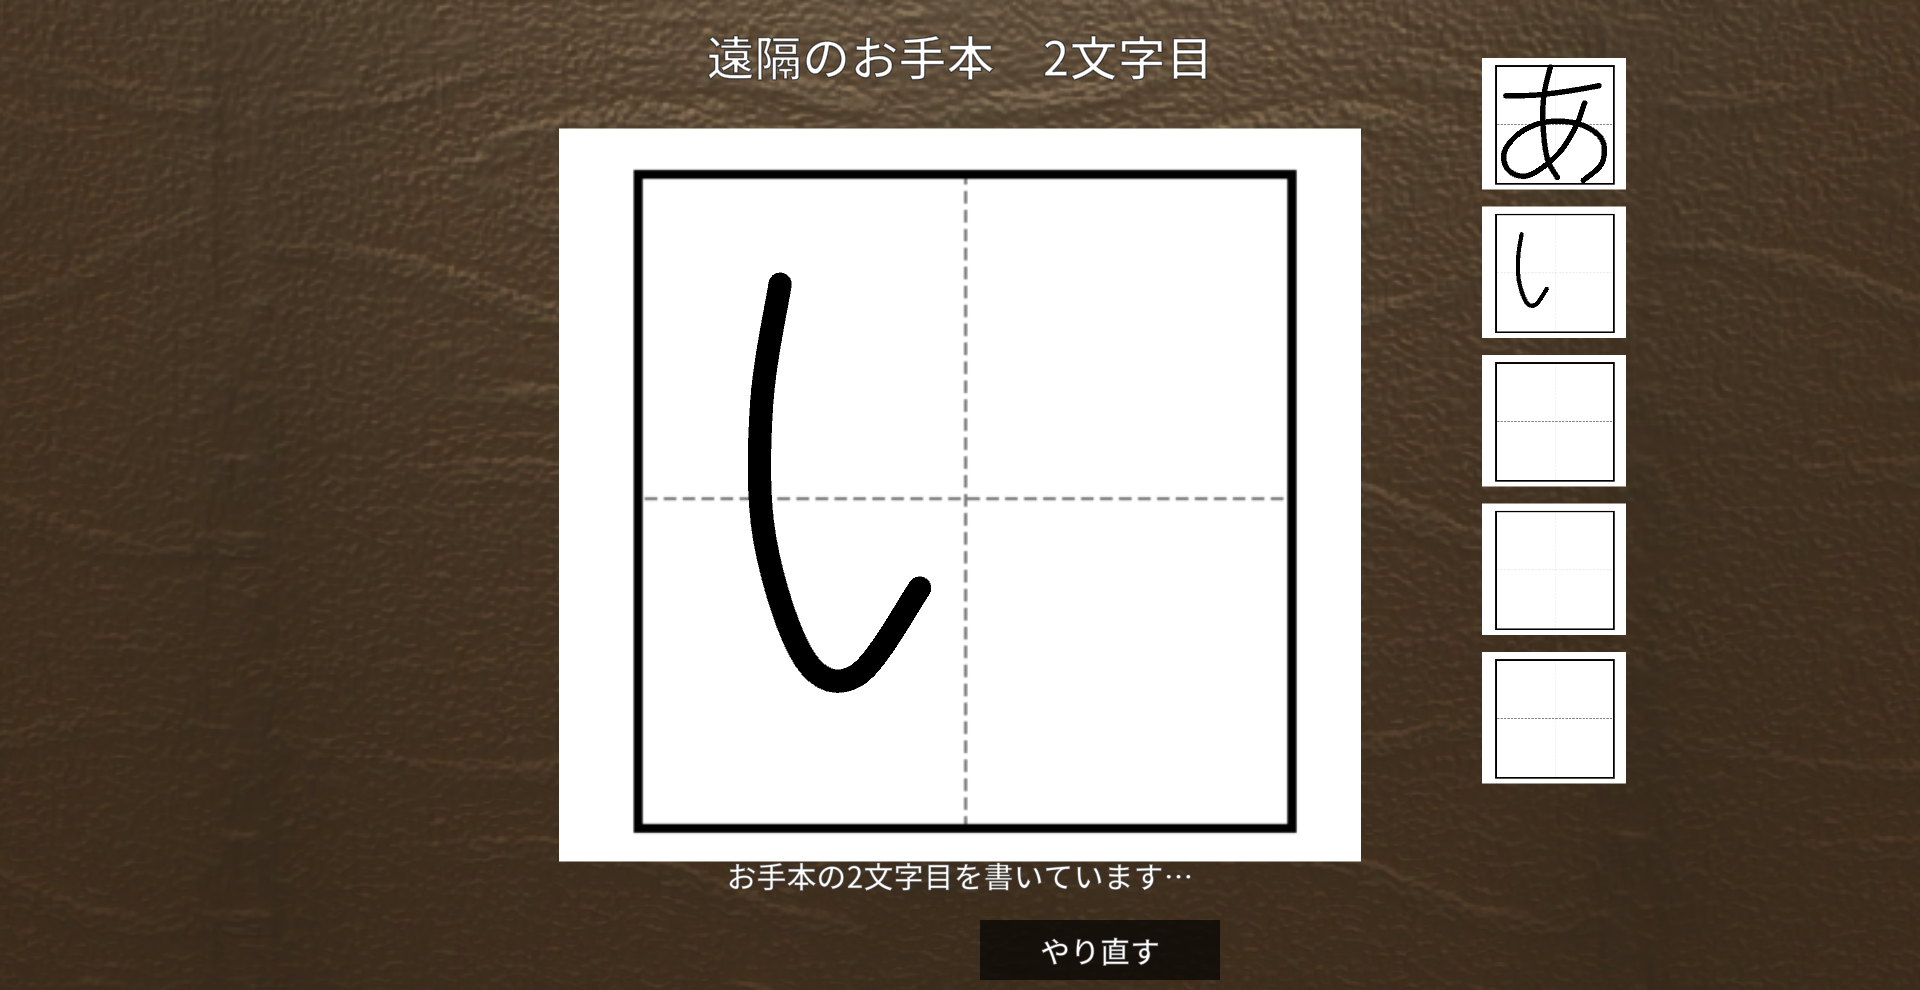
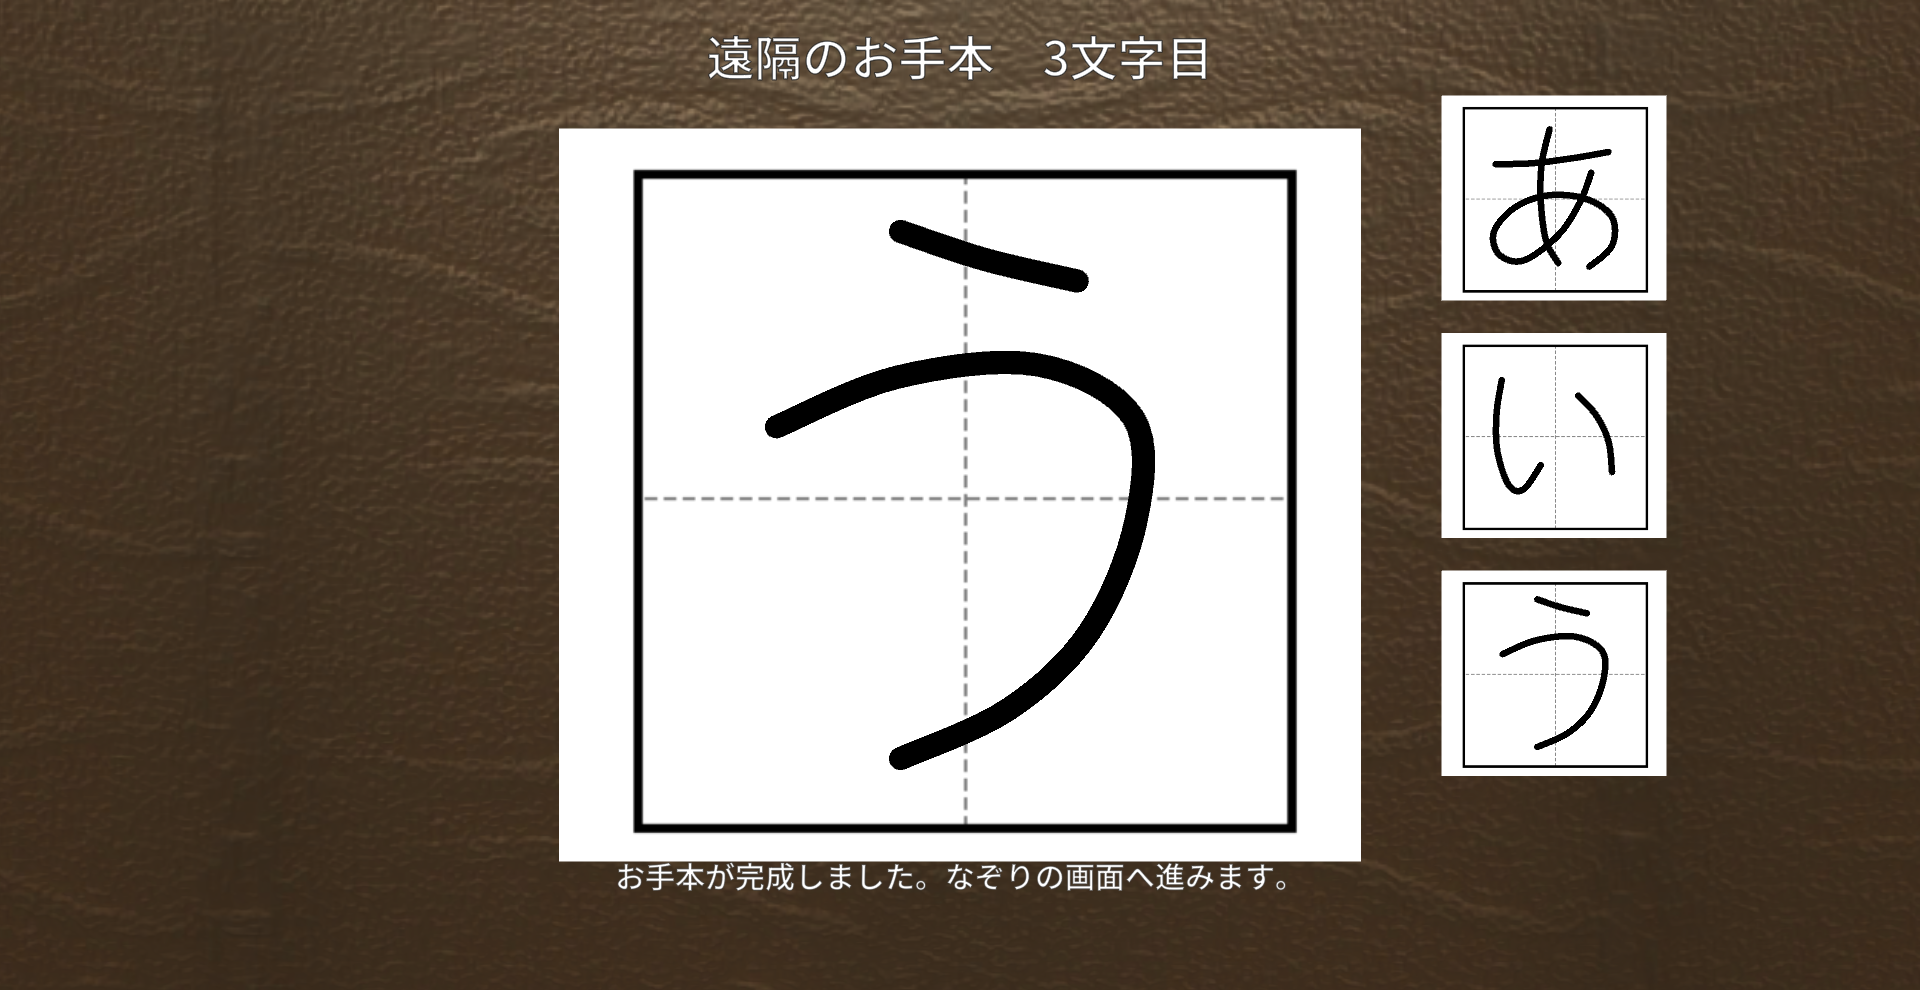
Limit remote handwriting to three characters and enlarge gallery layouts

diff --git a/Assets/scripts/RemotePreviewController.cs b/Assets/scripts/RemotePreviewController.cs
@@ -55,16 +55,16 @@ public class RemotePreviewController : MonoBehaviour
         }
         BuildInterface();
         var paperSize = paper.GetComponent<Renderer>().bounds.size;
-        float top = galleryArea.GetComponent<Renderer>().bounds.max.y;
+        float top = galleryArea.GetComponent<Renderer>().bounds.max.y - 0.75f;
         for (int i = 0; i < RemoteHandwritingReceiver.MaxCharacters; i++)
         {
             var slot = Instantiate(backgroundPrefab, rightPanelParent, false);
             slot.name = "CharacterPreview_" + i;
-            slot.transform.position = new Vector3(rightPanelParent.position.x, top - i * 1.5f, rightPanelParent.position.z);
+            slot.transform.position = new Vector3(rightPanelParent.position.x, top - i * 2.4f, rightPanelParent.position.z);
             slot.transform.rotation = rightPanelParent.rotation;
             var size = slot.GetComponent<Renderer>().bounds.size;
             slot.transform.localScale = Vector3.Scale(slot.transform.localScale,
-                new Vector3(paperSize.x / size.x, paperSize.y / size.y, 1f) * 0.18f);
+                new Vector3(paperSize.x / size.x, paperSize.y / size.y, 1f) * 0.28f);
             foreach (var text in slot.GetComponentsInChildren<TMP_Text>()) text.text = "";
             previews.Add(slot);
         }
@@ -85,7 +85,7 @@ public class RemotePreviewController : MonoBehaviour
         if (promptWord.Length > RemoteHandwritingReceiver.MaxCharacters)
         {
             receiver.enabled = false;
-            message = "お題は最大5文字です。InputNameに戻って入力し直してください。";
+            message = "お題は最大3文字です。InputNameに戻って入力し直してください。";
             return;
         }
         trial = RemoteTrialRuntime.Begin(useLocalTestTemplate, controlPort, promptWord, participantId);

diff --git a/Tests/RemoteHandwriting/PreviewFlowSmoke.cs b/Tests/RemoteHandwriting/PreviewFlowSmoke.cs
@@ -37,20 +37,20 @@ public static class PreviewFlowSmoke
         try
         {
             var data = GlobalData.RemoteTemplate;
-            if (data == null || !data.isLocalTest || data.promptWord != "あいうえお" || data.strokes.Count != 12)
+            if (data == null || !data.isLocalTest || data.promptWord != "あいう" || data.strokes.Count != 7)
                 throw new Exception("Completed template was not transferred.");
-            int[] strokeCounts = new int[5];
+            int[] strokeCounts = new int[3];
             foreach (var stroke in data.strokes)
             {
-                if (stroke.character < 0 || stroke.character > 4 || stroke.points.Count < 2)
+                if (stroke.character < 0 || stroke.character > 2 || stroke.points.Count < 2)
                     throw new Exception("Template coordinates were lost.");
                 strokeCounts[stroke.character]++;
             }
-            if (strokeCounts[0] != 3 || strokeCounts[1] != 2 || strokeCounts[2] != 2 || strokeCounts[3] != 2 || strokeCounts[4] != 3)
+            if (strokeCounts[0] != 3 || strokeCounts[1] != 2 || strokeCounts[2] != 2)
                 throw new Exception("Character stroke groups were lost.");
             if (UnityEngine.Object.FindObjectOfType<RemotePreviewController>() != null)
                 throw new Exception("Preview scene was not unloaded.");
-            Debug.Log("PREVIEW_FLOW_PASS: progressive drawing, completion, automatic scene transition and all five characters retained");
+            Debug.Log("PREVIEW_FLOW_PASS: progressive drawing, completion, automatic scene transition and all three characters retained");
             EditorApplication.Exit(0);
         }
         catch (Exception e) { Debug.LogException(e); EditorApplication.Exit(1); }

diff --git a/Tests/RemoteHandwriting/RemoteSmoke.cs b/Tests/RemoteHandwriting/RemoteSmoke.cs
@@ -106,12 +106,12 @@ public static class RemoteSmoke
             Check(receiver.Error != null, "missing UDP packet reported");
             go.SetActive(false);
             go.SetActive(true);
-            Queue(0, "nextCharacter", 5, 0f);
+            Queue(0, "nextCharacter", 3, 0f);
             Tick();
-            Check(receiver.Error == null, "advance after fifth character is allowed");
-            Queue(1, "point", 5, 0f);
+            Check(receiver.Error == null, "advance after third character is allowed");
+            Queue(1, "point", 3, 0f);
             Tick();
-            Check(receiver.Error != null && receiver.CharacterCount == 0, "sixth character is rejected");
+            Check(receiver.Error != null && receiver.CharacterCount == 0, "fourth character is rejected");
             go.SetActive(false);
             var importedObject = new GameObject("ImportedTemplate");
             importedObject.SetActive(false);
@@ -191,7 +191,7 @@ public static class RemoteSmoke
             Check(replay.MoveNext() && imported.CharacterCount == 1 && !imported.HasFinished, "test handwriting starts progressively");
             while (replay.MoveNext()) { }
             var sample = imported.ExportTemplate(RemoteTestHandwriting.Word, true);
-            Check(imported.CharacterCount == 5 && imported.HasEveryCharacter() && sample.strokes.Count == 12, "five-character sample completes with all twelve strokes preserved");
+            Check(imported.CharacterCount == 3 && imported.HasEveryCharacter() && sample.strokes.Count == 7, "three-character sample completes with all seven strokes preserved");
             importedObject.SetActive(false);
             Debug.Log("REMOTE_SMOKE_PASS: " + checks + " checks");
             EditorApplication.Exit(0);

diff --git a/Assets/scripts/RemoteTestHandwriting.cs b/Assets/scripts/RemoteTestHandwriting.cs
@@ -3,7 +3,7 @@ using UnityEngine;
 // Hand-authored centre-line samples, in the same XY space as the tablet sender.
 public static class RemoteTestHandwriting
 {
-    public const string Word = "あいうえお";
+    public const string Word = "あいう";
 
     public static RemoteTemplateData Create()
     {
@@ -24,17 +24,6 @@ public static class RemoteTestHandwriting
         Add(data, 2, 0, -.25f,.85f, .02f,.76f, .32f,.69f);
         Add(data, 2, 1, -.65f,.22f, -.26f,.38f, .19f,.42f, .50f,.25f,
             .51f,-.08f, .36f,-.44f, .10f,-.69f, -.25f,-.85f);
-        // え: upper mark, then the diagonal and folded lower stroke.
-        Add(data, 3, 0, -.25f,.85f, .02f,.76f, .32f,.70f);
-        Add(data, 3, 1, -.63f,.29f, -.18f,.37f, .48f,.43f, .17f,.10f,
-            -.19f,-.27f, -.64f,-.73f, -.24f,-.35f, .05f,-.22f,
-            .21f,-.35f, .24f,-.64f, .46f,-.73f, .76f,-.67f);
-        // お: horizontal, the vertical and lower loop, then the upper-right mark.
-        Add(data, 4, 0, -.72f,.42f, -.35f,.44f, .06f,.52f, .32f,.59f);
-        Add(data, 4, 1, -.20f,.86f, -.22f,.36f, -.20f,-.16f, -.19f,-.65f,
-            -.40f,-.72f, -.65f,-.51f, -.53f,-.28f, -.20f,-.08f,
-            .20f,.04f, .56f,-.09f, .66f,-.38f, .51f,-.64f, .18f,-.73f);
-        Add(data, 4, 2, .47f,.77f, .65f,.65f, .80f,.46f);
         return data;
     }
 

diff --git a/Tests/RemoteHandwriting/SessionSmoke.cs b/Tests/RemoteHandwriting/SessionSmoke.cs
@@ -25,11 +25,11 @@ public static class SessionSmoke
             using (var host = new RemoteTrialLink(true, 0))
             using (var teacher = new RemoteTrialLink(false, host.LocalPort, "127.0.0.1"))
             {
-                host.BeginTrial(first, "あいうえお", "anonymous-test");
+                host.BeginTrial(first, "あいう", "anonymous-test");
                 teacher.DeviceReady = true;
                 Exchange(host, teacher);
                 Check(host.Connected && teacher.Connected, "bidirectional UDP heartbeat connects both PCs");
-                Check(teacher.State.trialId == first && teacher.State.prompt == "あいうえお", "trial ID and prompt shared");
+                Check(teacher.State.trialId == first && teacher.State.prompt == "あいう", "trial ID and prompt shared");
                 Check(!host.CanDraw && !teacher.CanDraw, "drawing blocked until both ready");
                 teacher.LocalReady = true;
                 Exchange(host, teacher);

diff --git a/Assets/scripts/RemoteHandwritingReceiver.cs b/Assets/scripts/RemoteHandwritingReceiver.cs
@@ -10,7 +10,7 @@ using UnityEngine;
 /// <summary>Receives shodoVR DrawingUdpSender version 1 PenTablet packets.</summary>
 public class RemoteHandwritingReceiver : MonoBehaviour
 {
-    public const int MaxCharacters = 5;
+    public const int MaxCharacters = 3;
     [Range(0.5f, 2f)] public float displayScale = 1f;
     [Range(0.5f, 5f)] public float lineWidthMultiplier = 1f;
     [Tooltip("受信中も文字全体を紙の枠内に収めます。RemotePreview用。")]
@@ -199,7 +199,7 @@ public class RemoteHandwritingReceiver : MonoBehaviour
         if (packet.eventType != "point") return;
         if (packet.character >= MaxCharacters)
         {
-            Error = "お手本は最大5文字です。5文字以内で書き直してください。";
+            Error = "お手本は最大3文字です。3文字以内で書き直してください。";
             return;
         }
         if (packet.character >= CharacterCount)

diff --git a/Assets/scripts/PreGameControl.Remote.cs b/Assets/scripts/PreGameControl.Remote.cs
@@ -4,7 +4,7 @@ public partial class PreGameControl
 {
     [Header("Remote handwriting (shodoVR PenTablet)")]
     public bool useRemoteTemplate;
-    [Tooltip("UDP受信の代わりに座標で作ったテスト文字「あいうえお」を表示します。")]
+    [Tooltip("UDP受信の代わりに座標で作ったテスト文字「あいう」を表示します。")]
     public bool useLocalTestTemplate;
     [Tooltip("ローカルのお手本テスト中だけ、バランスボードの接続とキャリブレーションを省略します。")]
     public bool skipBalanceBoardInLocalTest = true;

diff --git a/Assets/scripts/PreGameControl.cs b/Assets/scripts/PreGameControl.cs
@@ -356,6 +356,9 @@ public partial class PreGameControl : MonoBehaviour
         FreezeAnimatorAtStart(galleryAnimator);
         FreezeAnimatorAtStart(rightPanelAnimator);
         FreezeAnimatorAtStart(moveAreaAnimator);
+        // Three-character remote galleries use larger thumbnails within the same screen area.
+        if (useRemoteTemplate && galleryArea != null)
+            galleryArea.transform.position += Vector3.down * 0.75f;
 
         if (useRemoteTemplate) InitializeRemoteTemplate();
 

diff --git a/REMOTE_OPERATIONS.md b/REMOTE_OPERATIONS.md
@@ -12,9 +12,9 @@
 ## お手本を見る
 
 1. shodoVRのSampleSceneを再生する。描画用Planeは開始まで非表示。
-2. 体験者側のInputNameを再生し、5文字以内のお題を入力して開始する。
+2. 体験者側のInputNameを再生し、3文字以内のお題を入力して開始する。
 3. RemotePreviewで接続を待つ。接続前の待ち時間は無制限。両側の「準備完了」を押すと、お手本を書けるようになる。
-4. 遠隔者がペンタブで書く。体験者側は中央に受信中の文字、右側に1〜5文字目の一覧を表示する。
+4. 遠隔者がペンタブで書く。体験者側は中央に受信中の文字、右側に1〜3文字目の一覧を表示する。
 
 | 遠隔者の操作 | 内容 |
 |---|---|
@@ -23,7 +23,7 @@
 | R | 今の文字を消して書き直す |
 | Enter／テンキーEnter | 単語全体を完成させる |
 
-例：「あいうえお」は、あ → Space → い → Space → う → Space → え → Space → お → Enter。
+例：「あいう」は、あ → Space → い → Space → う → Space → え → Space → お → Enter。
 
 完成した文字は紙に収まるよう調整される。全文字が完成すると、RemoteGameへ自動で進む。
 
@@ -47,4 +47,4 @@
 - RemotePreviewの「やり直す」、またはRemoteGameの「最初からやり直す」で、新しい試行としてお手本から再開する。両側の準備完了をもう一度押す。
 - 接続後の通信停止は5秒、お手本入力の停止は既定60秒で検出する。エラー時はIP・ネットワーク・機器を確認してからやり直す。
 - 記録は各PCの`Application.persistentDataPath/RemoteTrials/<試行ID>/`へ自動保存。同じ試行IDで対応付ける。詳細はREMOTE_GAME.md参照。
-- テストする場合はUse Local Test TemplateをONにする。「あいうえお」を自動表示する。本番に戻すときはOFF。
+- テストする場合はUse Local Test TemplateをONにする。「あいう」を自動表示する。本番に戻すときはOFF。
